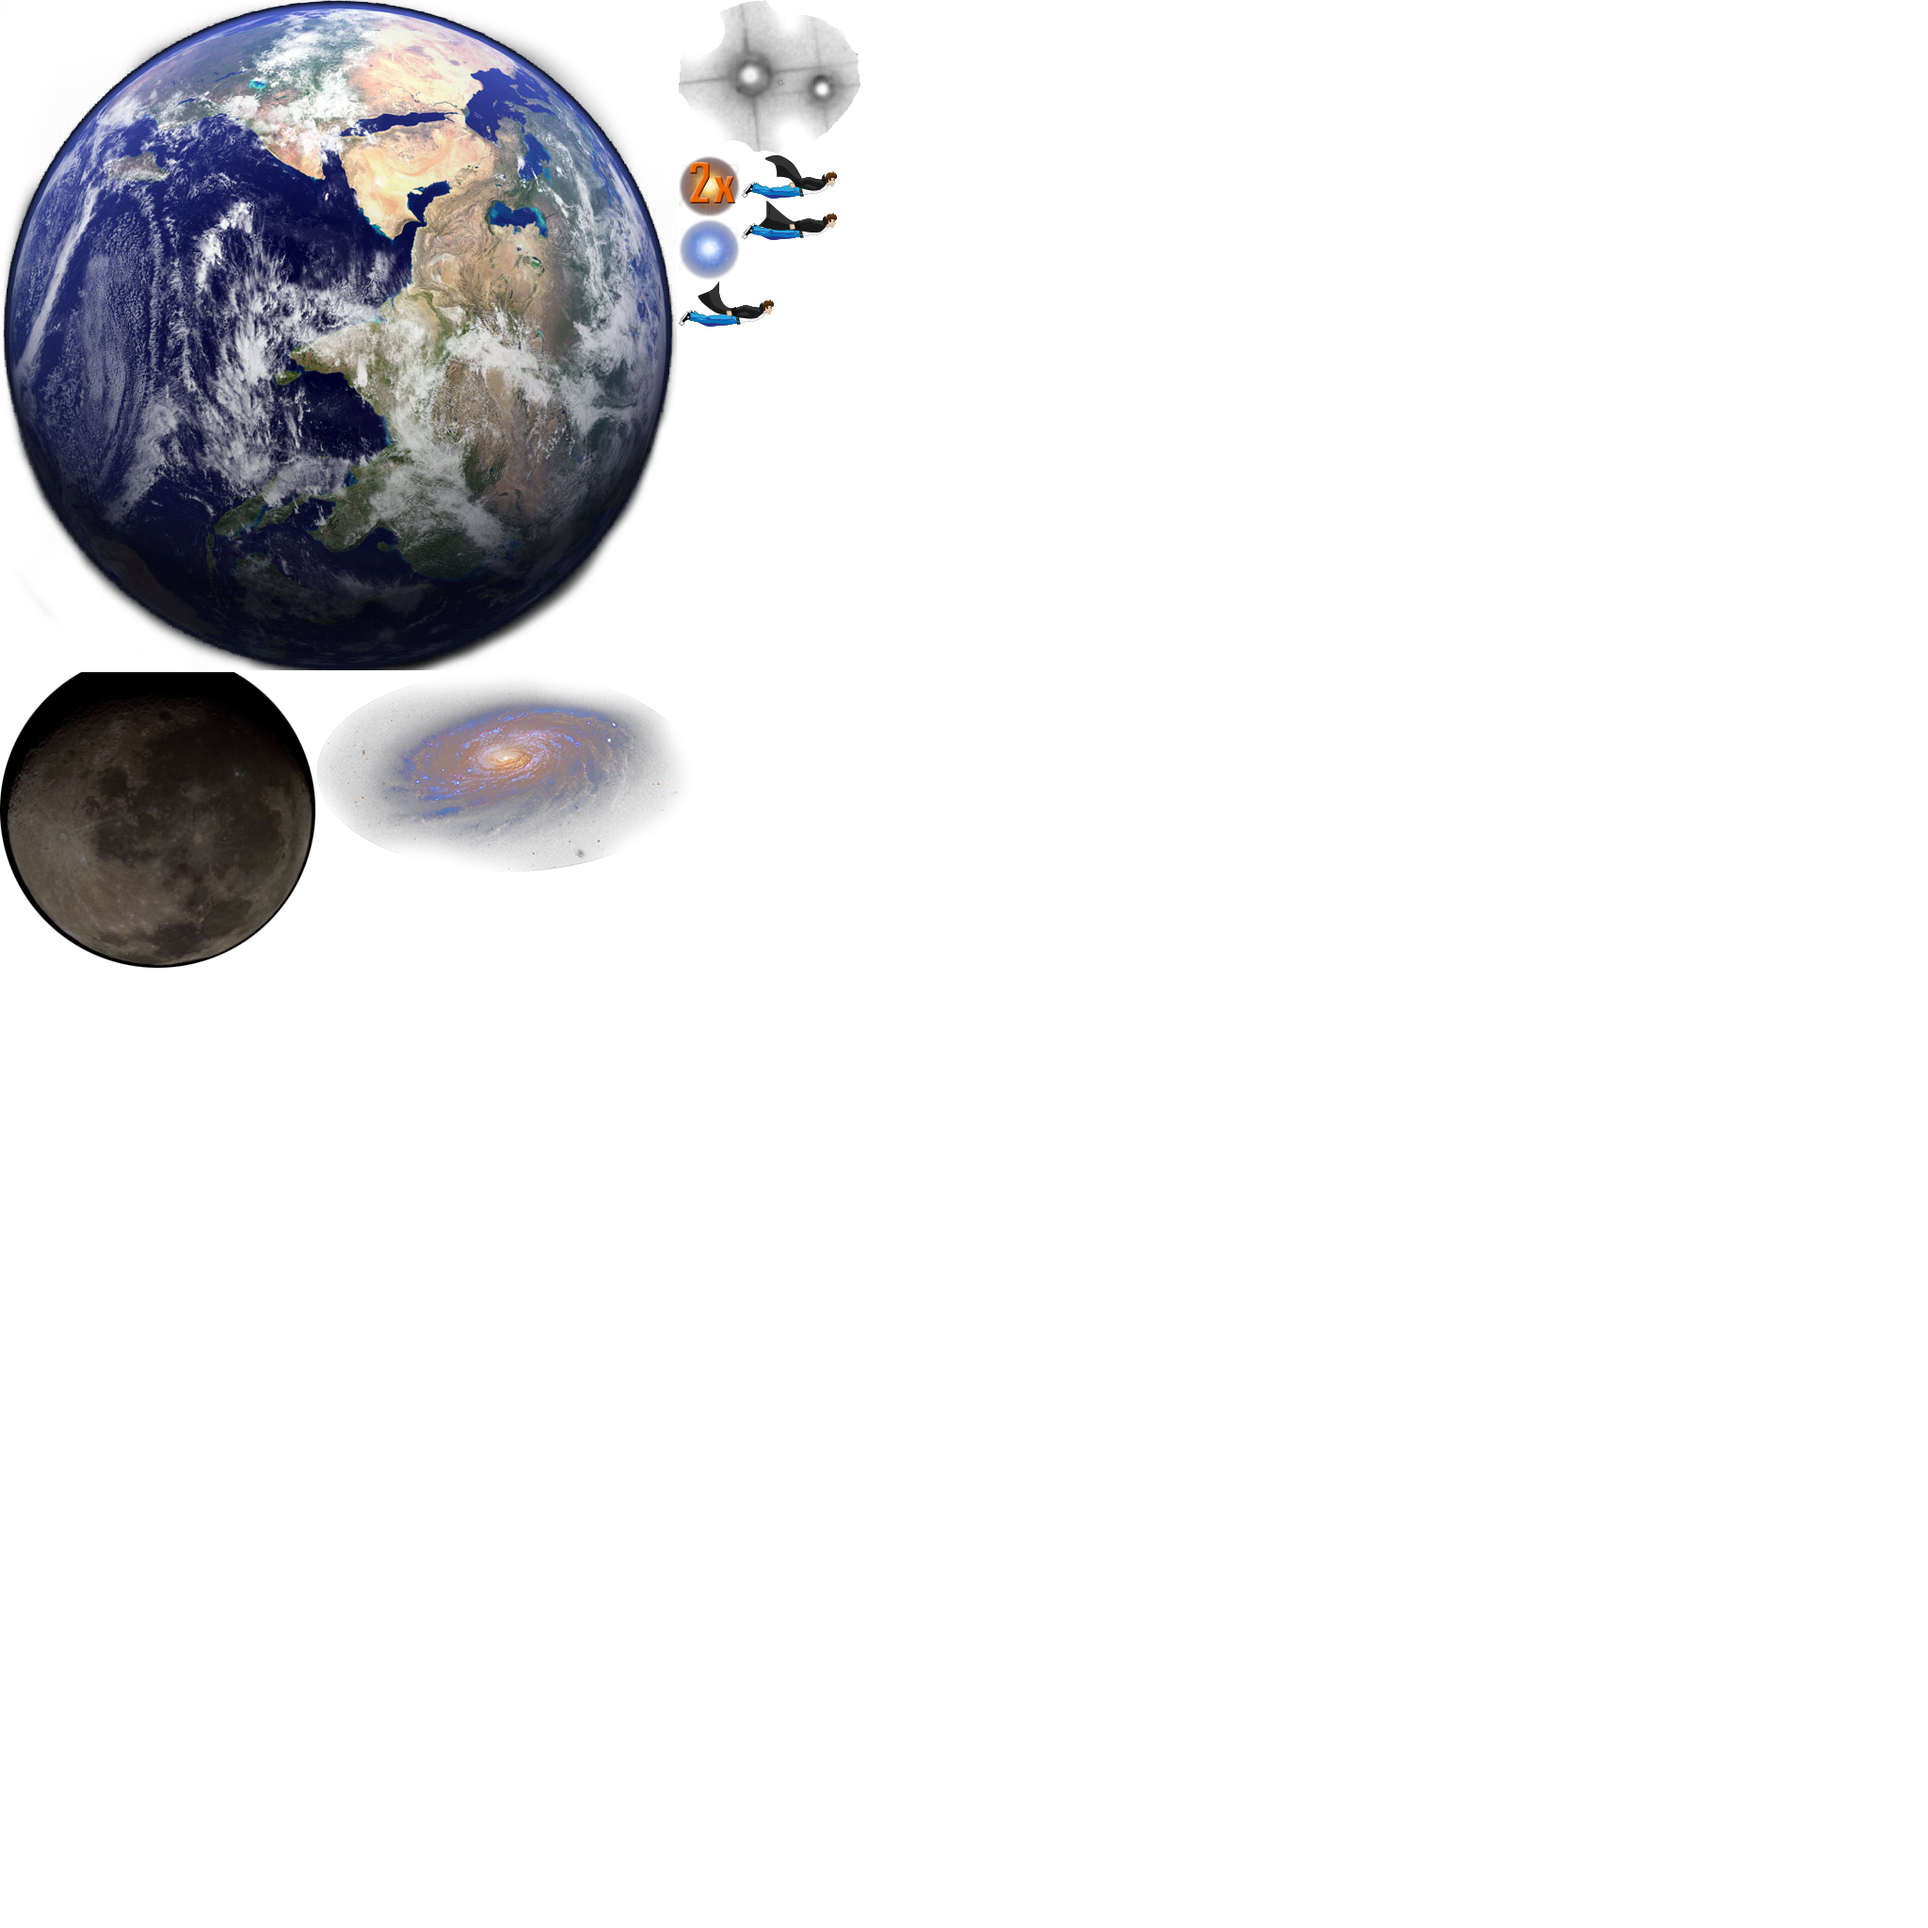
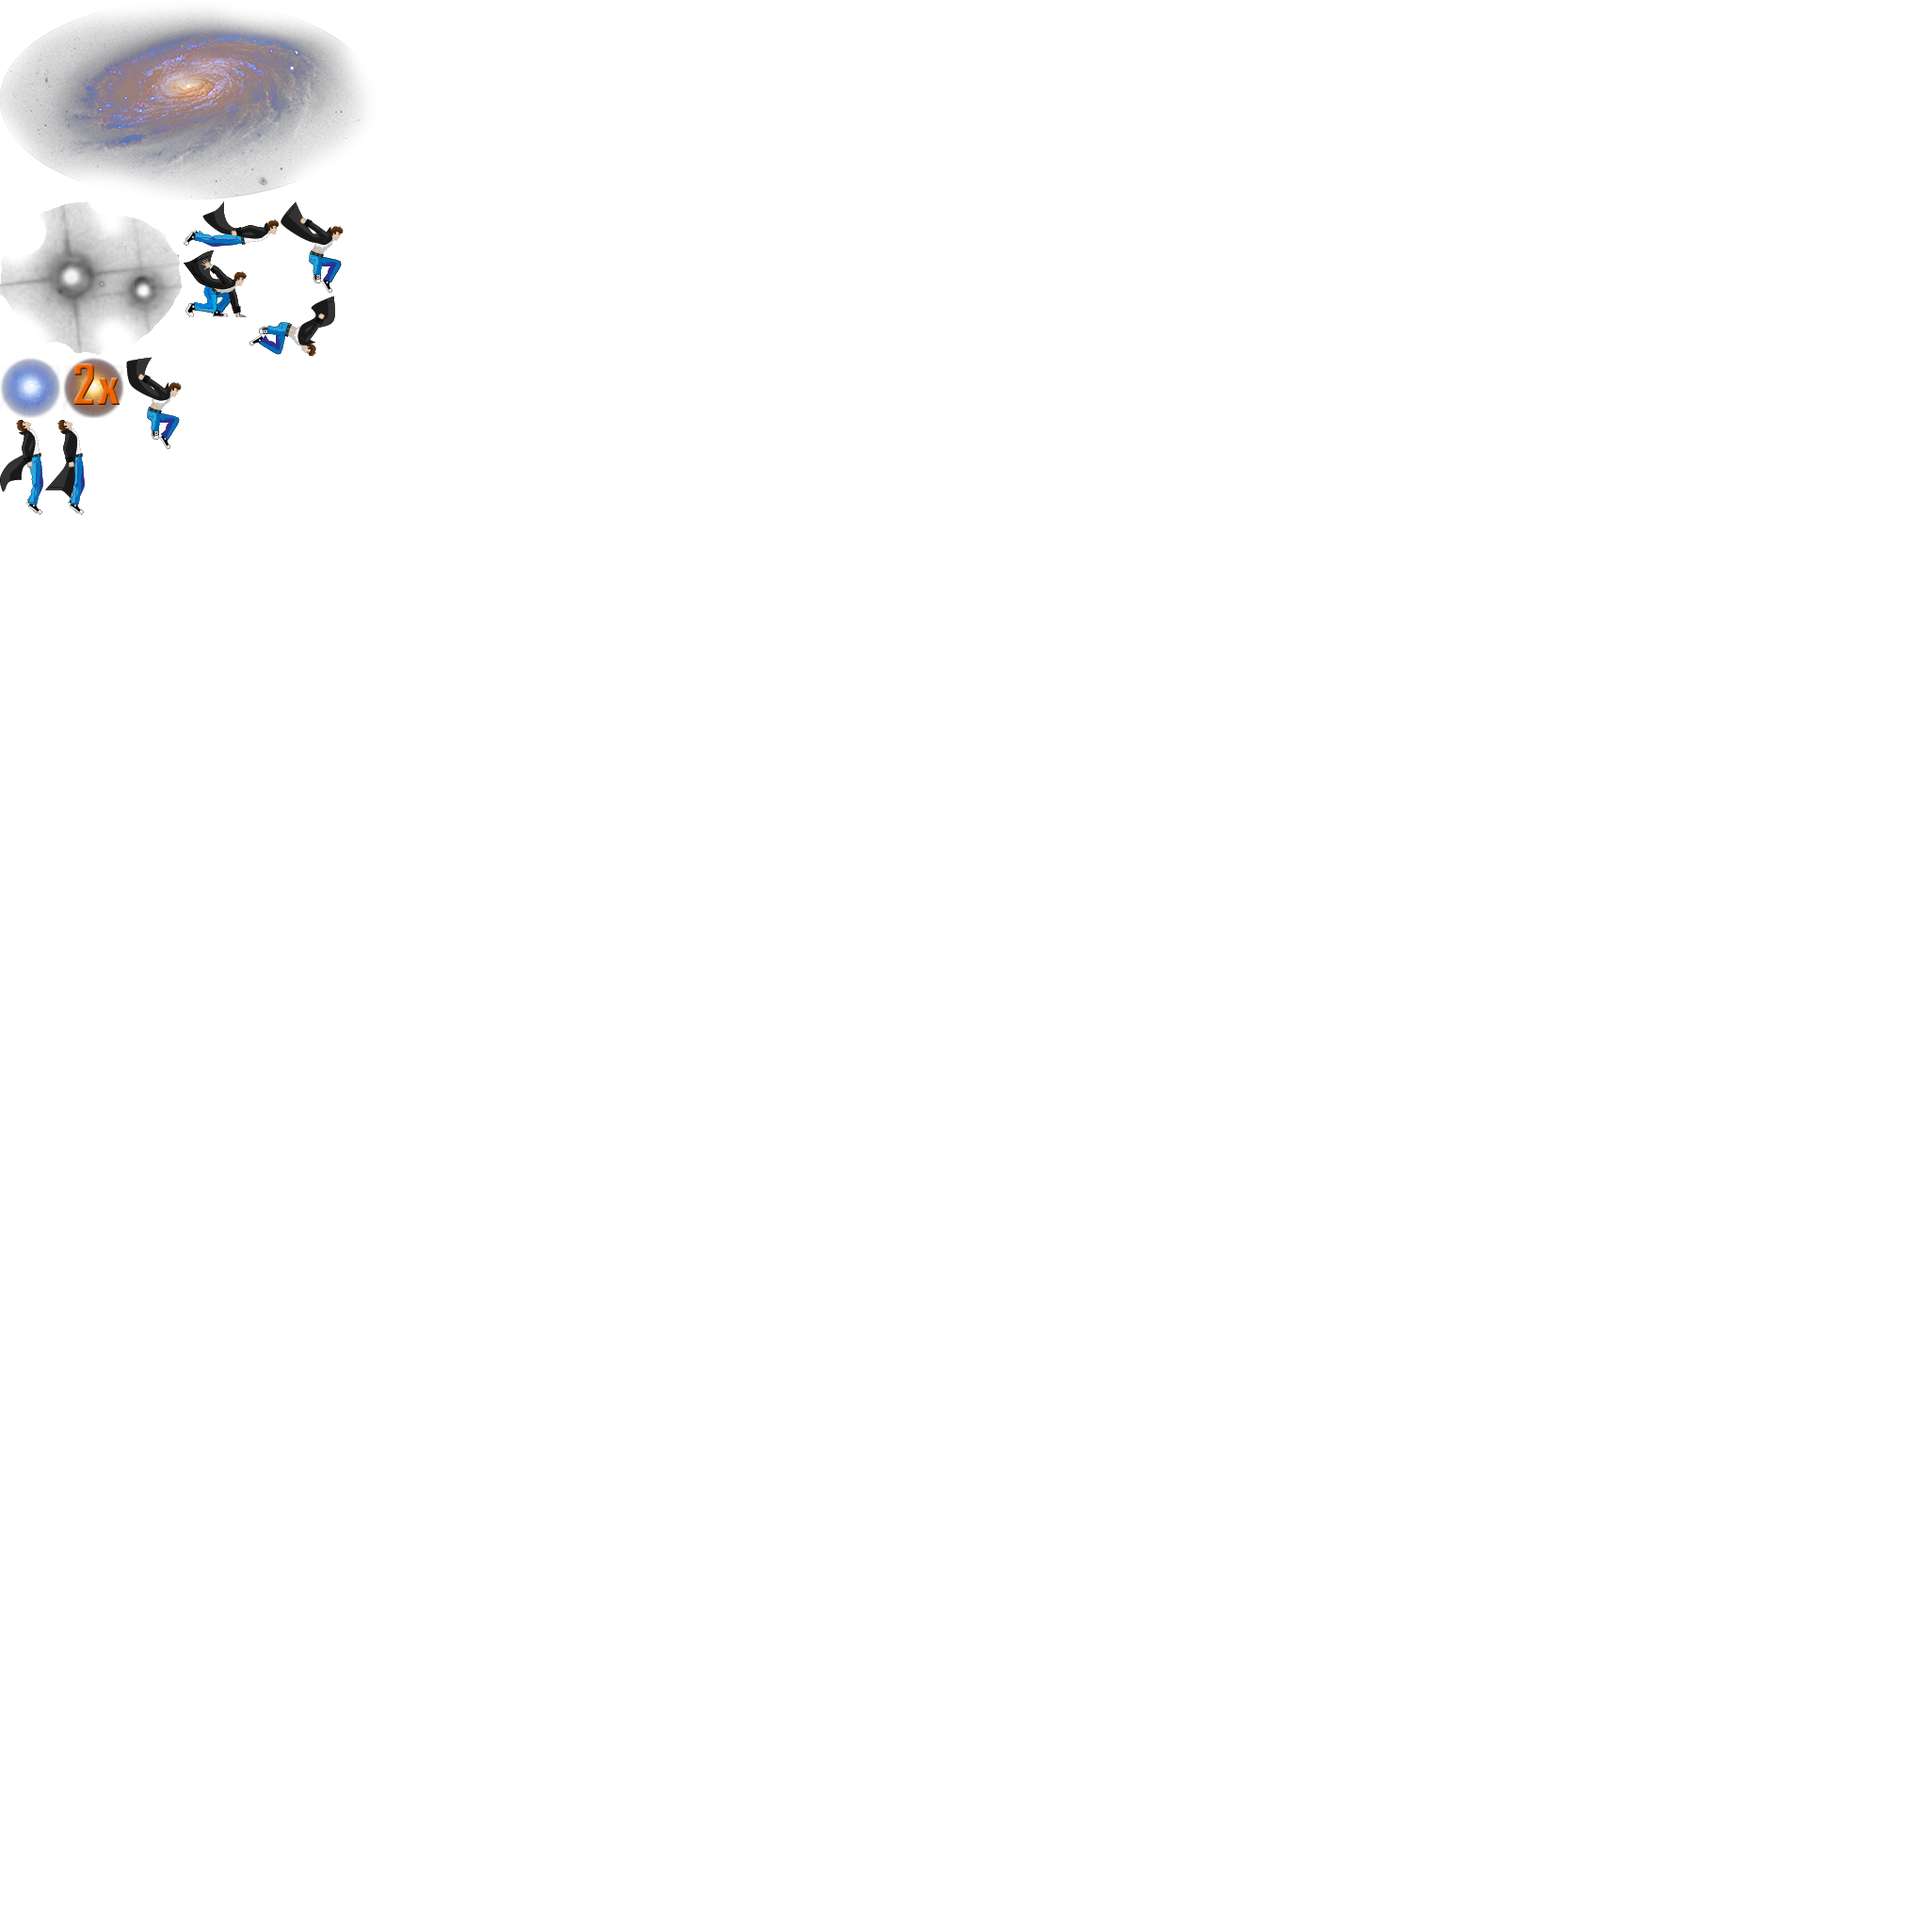
Crouch animation during start. Change to flying when in air.  Remove earth and moon from sprite atlas. Trim and rotate flight sprites.

Changed region(s): [[0.0, 0.0, 0.4688, 0.5]]

diff --git a/CloudSoar/Player.mm b/CloudSoar/Player.mm
@@ -30,17 +30,17 @@ static BOOL animationLoaded;
         screenSize = [[CCDirector sharedDirector] winSize];
         
         rocketParticle = [ARCH_OPTIMAL_PARTICLE_SYSTEM particleWithFile:@"rocket.plist"];
-        rocketParticle.rotation = -270;
-        rocketParticle.position = ccp(rocketParticle.position.x, rocketParticle.position.y+26);
+        rocketParticle.position = ccp(rocketParticle.position.x+15, rocketParticle.position.y);
         [self addChild:rocketParticle z:-1];
         [rocketParticle stopSystem];
         rocketParticle.visible = NO;
         
         [self setupAnimations];
         
-        id flyAnim = [CCAnimate actionWithAnimation:[[CCAnimationCache sharedAnimationCache] animationByName:@"flyingAnimation"] restoreOriginalFrame:NO];
-        id repeat = [CCRepeatForever actionWithAction:flyAnim];
-        [self runAction:repeat];
+        id slideAnim = [CCAnimate actionWithAnimation:[[CCAnimationCache sharedAnimationCache] animationByName:@"slideAnimation"] restoreOriginalFrame:NO];
+        id repeat = [CCRepeatForever actionWithAction:slideAnim];
+        [self runAction:repeat];        
+        animationState = kAnimationSlide;
     }
     return self;
 }
@@ -59,7 +59,7 @@ static BOOL animationLoaded;
 	
 	// Define another box shape for our dynamic body.
 	b2PolygonShape dynamicBox;
-	dynamicBox.SetAsBox(([self boundingBox].size.width-35)/2/PTM_RATIO,[self boundingBox].size.height/2/PTM_RATIO);//These are mid points for our 1m box
+	dynamicBox.SetAsBox(([self boundingBox].size.width)/2/PTM_RATIO,[self boundingBox].size.height/2/PTM_RATIO);//These are mid points for our 1m box
 	
 	// Define the dynamic body fixture.
 	b2FixtureDef fixtureDef;
@@ -76,6 +76,7 @@ static BOOL animationLoaded;
         return;
     }
     
+    // Fly animation
     CCSpriteFrame *frame;
     NSMutableArray *flyFrames = [NSMutableArray array];
     for (int i = 1; i <= 3; i++) {
@@ -87,11 +88,32 @@ static BOOL animationLoaded;
     CCAnimation *animFlying = [CCAnimation animationWithFrames:flyFrames delay:0.075];
     [[CCAnimationCache sharedAnimationCache] removeAnimationByName:@"flyingAnimation"];
     [[CCAnimationCache sharedAnimationCache] addAnimation:animFlying name:@"flyingAnimation"];            
+    
+    // Slide animation
+    NSMutableArray *slideFrames = [NSMutableArray array];
+    for (int i = 1; i <= 1; i++) {
+        NSString *file = [NSString stringWithFormat:@"Slide-Cycle-%d.png", i];
+        frame = [[CCSpriteFrameCache sharedSpriteFrameCache] spriteFrameByName:file];
+        [slideFrames addObject:frame];
+    }	
+    
+    CCAnimation *animSlide = [CCAnimation animationWithFrames:slideFrames delay:0.1];
+    [[CCAnimationCache sharedAnimationCache] removeAnimationByName:@"slideAnimation"];
+    [[CCAnimationCache sharedAnimationCache] addAnimation:animSlide name:@"slideAnimation"];            
 }
 
 - (void) jump {
     // Do jump if not in rocket state
     if (rocketState != kPowerUpStateInEffect) {
+        
+        if (animationState != kAnimationFlying) {
+            animationState = kAnimationFlying;
+            [self stopAllActions];
+            id flyAnim = [CCAnimate actionWithAnimation:[[CCAnimationCache sharedAnimationCache] animationByName:@"flyingAnimation"] restoreOriginalFrame:NO];
+            id repeat = [CCRepeatForever actionWithAction:flyAnim];
+            [self runAction:repeat];
+        }
+
         self.state = kPlayerStateNone;
 //        [GameplayLayer sharedInstance].leadOutOffSet = screenSize.height/2;
       

diff --git a/CloudSoar/GameplayLayer.mm b/CloudSoar/GameplayLayer.mm
@@ -134,7 +134,6 @@ static GameplayLayer *sharedInstance;
         
         player = [Player spriteWithSpriteFrameName:@"Fly-Cycle-2.png"];
         player.position = ccp(160, 20);
-        player.rotation = 270;
         [player createPhysicsObject:world];
         [self addChild:player];
 
@@ -224,10 +223,11 @@ static GameplayLayer *sharedInstance;
         [parallaxLayer setZoom:_newScale];
     }
     else if (player.rocketState != kPowerUpStateInEffect && self.scale < 1.0) {
-        self.scale *= (1.0 + (0.2)*dt);
-        if (self.scale > 1.0) {
-            self.scale = 1.0;
+        float newScale = self.scale * (1.0 + (0.2)*dt);
+        if (newScale > 1.0) {
+            newScale = 1.0;
         }
+        self.scale = newScale;
         
         [parallaxLayer setZoom:self.scale];
     }

diff --git a/CloudSoar/Player.h b/CloudSoar/Player.h
@@ -24,6 +24,12 @@ typedef enum {
     kPowerUpStateDone
 } PowerUpState;
 
+typedef enum {
+    kAnimationNone,
+    kAnimationSlide,
+    kAnimationFlying
+} AnimationState;
+
 @interface Player : SpriteObject {
     PlayerState state;
     PowerUpState powerUpState;
@@ -32,6 +38,8 @@ typedef enum {
     
     PowerUpState rocketState;
     BOOL rocketStateCooldownScheduled; 
+
+    AnimationState animationState;
     
     ALuint windFx;
 }

diff --git a/CloudSoar/ParallaxBackgroundLayer.m b/CloudSoar/ParallaxBackgroundLayer.m
@@ -60,7 +60,7 @@ static ParallaxBackgroundLayer *instanceOfLayer;
     [self addChild:backParallax z:0];
     [self addChild:frontParallax z:2];
 
-    CCSprite *earth = [CCSprite spriteWithSpriteFrameName:@"earth.png"];
+    CCSprite *earth = [CCSprite spriteWithFile:@"earth.png"];
     earth.scale = 2.0f;
     earth.anchorPoint = CGPointZero;
     earth.position = ccp(-[earth boundingBox].size.width/2, originalScreenSize.height);
